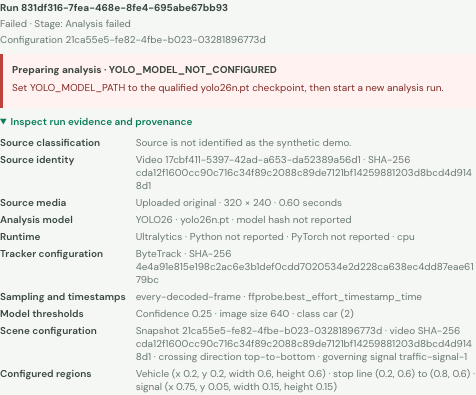
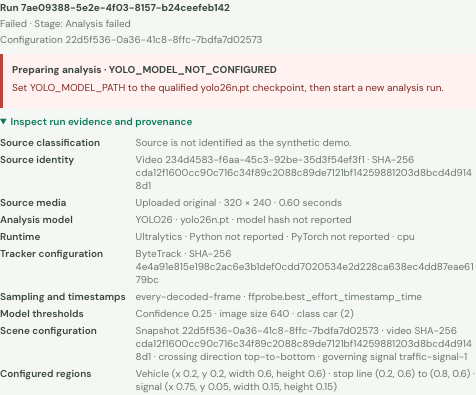
Format scene provenance values for review

diff --git a/reports/per107/frontend-validation.md b/reports/per107/frontend-validation.md
@@ -21,4 +21,4 @@ The interface presents only the API-reported run status and phase, sanitizes acc
 - `revalidation-mobile.png` is the existing 640-pixel responsive layout capture.
 - Vitest uses deterministic API-run records to check queued → preparation → car-tracking polling and completed no-track/indeterminate outcomes. These fixtures do not validate inference quality.
 - The browser run intentionally stopped at the actual missing-model failure. Successful real YOLO inference, real-camera accuracy, and TestSprite are not verified here.
-- Commands ran under Node `v26.8.2`; the repository pins Node `22.23.2` in `.nvmrc`.
+- All checks, including both Chromium journeys, ran under the repository-pinned Node `v22.23.2` from `.nvmrc`.
